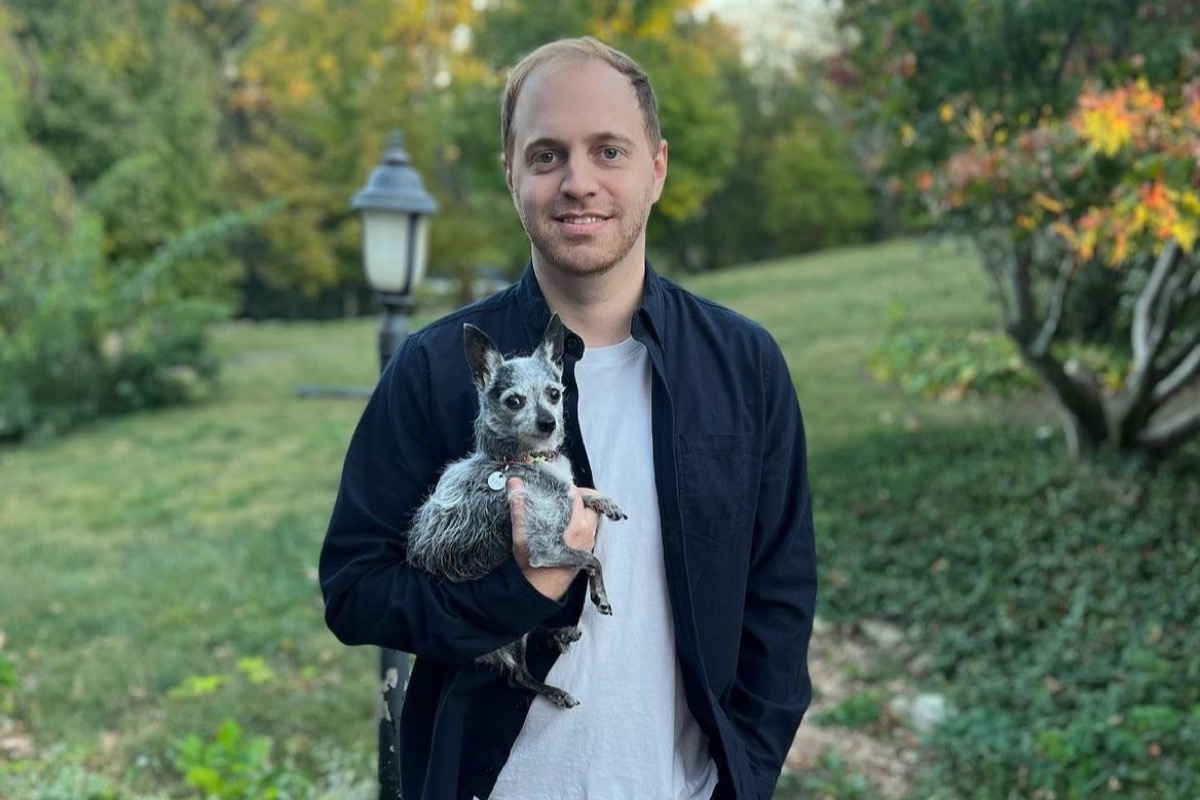
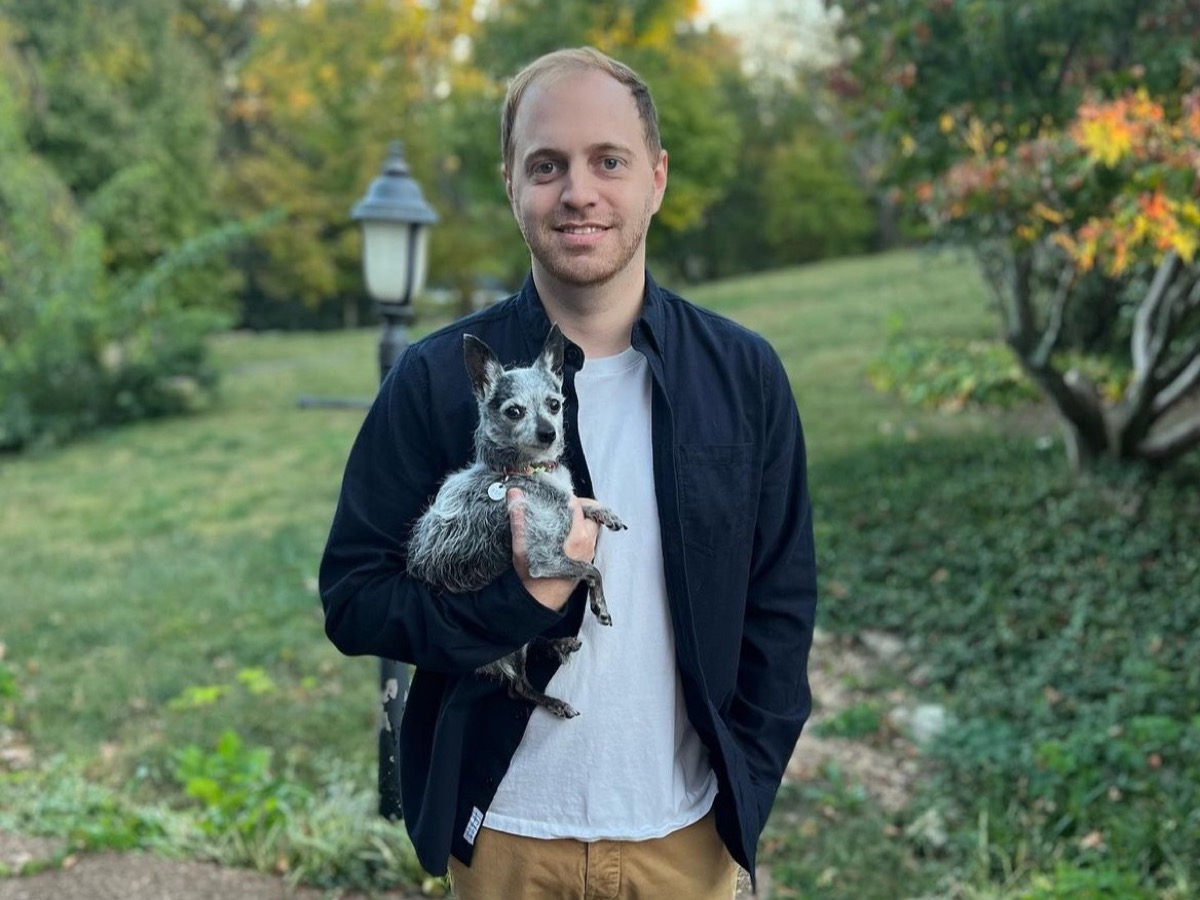
About: honest audit-team language, 4:3 photo crops that fit Grant's whole head

diff --git a/about.html b/about.html
@@ -85,29 +85,32 @@
         <div class="wrap">
           <h1 id="hero-h">The people you'll actually <em>work with</em>.</h1>
           <p class="about-line">
-            Labrador is three co-founders across Maine, Wales, and Delhi. There are no account
-            managers and no handoffs: the people on this page are the people on your audit.
+            Labrador is three co-founders across Maine, Wales, and Delhi, and the audit team we've
+            built in India. There are no account managers, and nothing ships without us: we
+            quality-check every audit and polish every line of every report.
           </p>
         </div>
       </section>
 
       <!-- THE FOUNDERS — the center of the page. Each member is a ruled row:
-           a uniform landscape photograph (1200 by 800, cropped by hand from
-           the originals so every frame matches) beside the bio. Landscape
+           a uniform landscape photograph (1200 by 900, cropped by hand from
+           the originals so every frame matches; 4:3 is the widest ratio that
+           holds Grant's whole head, chin included) beside the bio. Landscape
            rather than portrait is deliberate: the wide frames give the rows a
            calm, editorial rhythm no other page has. Sam's dog stays in frame
            on purpose, and the bio's closing line makes the choice read as
-           intent, not accident. -->
+           intent, not accident. The ?v= on each src is the image cache-buster:
+           bump it whenever a crop is regenerated under the same filename. -->
       <section class="founders" id="team" aria-labelledby="founders-h">
         <div class="wrap">
           <h2 id="founders-h">The founders</h2>
           <ul class="member-list" role="list">
             <li class="member">
               <img
-                src="team/grant.jpg"
+                src="team/grant.jpg?v=2"
                 alt="Grant Broome smiling in close-up under a wooden pergola, sunglasses pushed up on his head, greenery behind him."
                 width="1200"
-                height="800"
+                height="900"
                 loading="lazy"
               />
               <div class="member-bio">
@@ -131,10 +134,10 @@
             </li>
             <li class="member">
               <img
-                src="team/shadab.jpg"
+                src="team/shadab.jpg?v=2"
                 alt="Shadab Saifi in a navy suit and open-collared white shirt, smiling in a studio portrait against a gray backdrop."
                 width="1200"
-                height="800"
+                height="900"
                 loading="lazy"
               />
               <div class="member-bio">
@@ -155,20 +158,20 @@
                   another leading screen reader).
                 </p>
                 <p>
-                  His day-to-day work covers WCAG 2.2 audits, accessibility remediation, VPAT and
-                  ACR documentation, accessibility governance programs, and developer training. He
-                  tests with real assistive technology, including JAWS, NVDA, VoiceOver, and
-                  TalkBack, and produces documentation that holds up in procurement reviews and
-                  legal due diligence.
+                  He leads our audit team in India, and his day-to-day work covers WCAG 2.2 audits,
+                  accessibility remediation, VPAT and ACR documentation, accessibility governance
+                  programs, and developer training. He tests with real assistive technology,
+                  including JAWS, NVDA, VoiceOver, and TalkBack, and produces documentation that
+                  holds up in procurement reviews and legal due diligence.
                 </p>
               </div>
             </li>
             <li class="member">
               <img
-                src="team/sam.jpg"
+                src="team/sam.jpg?v=2"
                 alt="Sam Donnelly standing on a garden path in autumn, smiling, holding his small gray dog in one arm."
                 width="1200"
-                height="800"
+                height="900"
                 loading="lazy"
               />
               <div class="member-bio">
